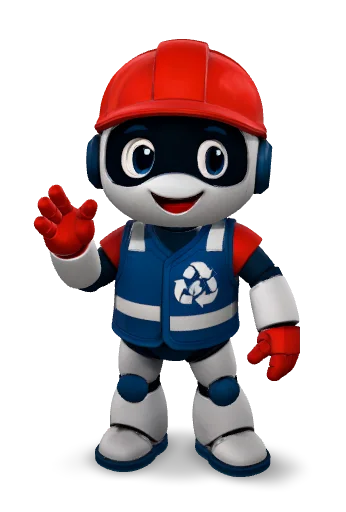
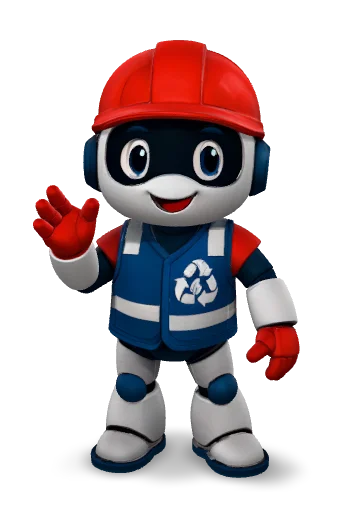
Add files via upload

diff --git a/index.html b/index.html
@@ -9,7 +9,7 @@
   </head>
   <body>
     <!-- <model-viewer> HTML element -->
-    <model-viewer src="hitem3d.glb" ar ar-modes="webxr scene-viewer quick-look" camera-controls tone-mapping="neutral" poster="poster.webp" shadow-intensity="1">
+    <model-viewer src="Kengi.glb" ar ar-modes="webxr scene-viewer quick-look" camera-controls tone-mapping="neutral" poster="poster.webp" shadow-intensity="1">
       <div class="progress-bar hide" slot="progress-bar">
           <div class="update-bar"></div>
       </div>
